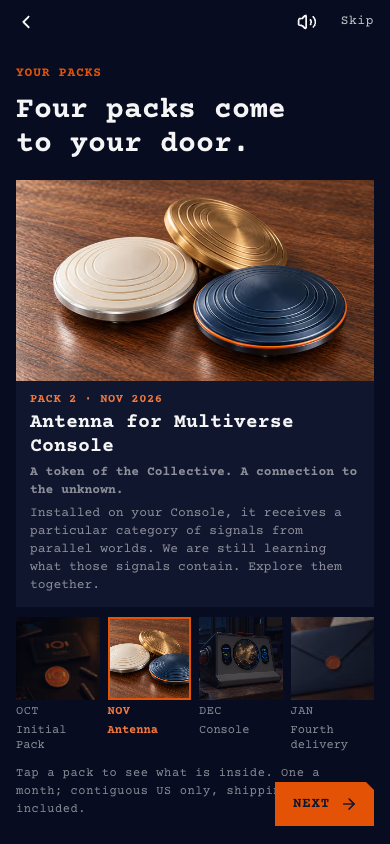
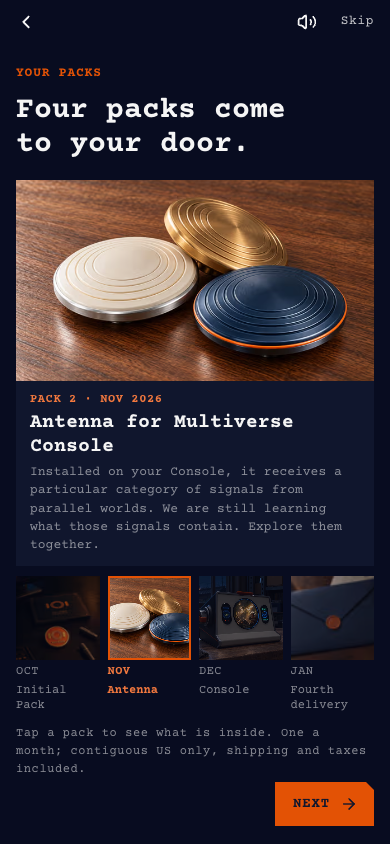
Remove Antenna Pack 2 tagline

Changed region(s): [[0.0308, 0.5545, 0.9538, 0.9858], [0.4615, 0.9242, 0.5231, 0.955]]

diff --git a/src/app/voyager-initiation/initiation-view.tsx b/src/app/voyager-initiation/initiation-view.tsx
@@ -235,7 +235,6 @@ export function InitiationView({ initialBundle = 'initial', snapshot, members = 
                 <PackHeading>{pack.title}</PackHeading>
                 {legacy && index < 2 && <p className={styles.packAccess}>Included in Initial Pack</p>}
                 {pack.featured && consoleClaim.claimed && <p className={styles.packAccess}>{consoleClaim.batch?.name ?? 'Batch details unavailable'}</p>}
-                {index === 1 && <p className={styles.antennaCopy}><strong>{ANTENNA.packTagline}</strong></p>}
                 <p className={index === 1 ? styles.antennaCopy : undefined}>{pack.description}</p>
                 {shipment ? shipment.status !== 'planned' && <p className={styles.shipmentStatus}>{shipment.status}</p> : initiated ? <p className={styles.shipmentStatus}>Progress unavailable</p> : null}
                 {shipment?.trackingUrl && <a className={styles.textLink} href={shipment.trackingUrl} target="_blank" rel="noopener noreferrer">Track delivery <ArrowRight size={18} aria-hidden /></a>}

diff --git a/src/app/voyager-initiation/briefing/briefing-pages.tsx b/src/app/voyager-initiation/briefing/briefing-pages.tsx
@@ -501,7 +501,7 @@ export function PacksPage({ state, onPack }: { state: PageState; onPack: (index:
         <div className={`${s.packHero} ${selected === 1 ? s.antennaHero : ''}`}>
           <span key={pack.image} className={s.packImage}><SmartImage src={pack.image} alt={pack.alt} sizes="(min-width: 460px) 430px, 92vw" preload style={pack.focus ? { objectPosition: pack.focus } : undefined} /></span>
         </div>
-        <div className={s.packCaption} aria-live="polite"><span>{pack.meta}</span><b>{pack.title}</b>{selected === 1 && <p><strong>{ANTENNA.packTagline}</strong></p>}<p>{pack.description}</p></div>
+        <div className={s.packCaption} aria-live="polite"><span>{pack.meta}</span><b>{pack.title}</b><p>{pack.description}</p></div>
       </div>
       <div className={s.packStrip}>
         {PACKS.map((item, k) => <button key={item.month} type="button" className={s.packThumb} aria-pressed={selected === k} style={{ '--k': k } as CSSProperties}

diff --git a/src/lib/antenna-copy.ts b/src/lib/antenna-copy.ts
@@ -2,7 +2,6 @@
 export const ANTENNA = {
   name: 'Antenna',
   firstMention: 'Antenna for Multiverse Console',
-  packTagline: 'A token of the Collective. A connection to the unknown.',
   packDescription: 'Installed on your Console, it receives a particular category of signals from parallel worlds. We are still learning what those signals contain. Explore them together.',
   tagline: 'An emblem of the Collective. A connection to the unknown.',
   description: 'An emblem of the Collective. A connection to the unknown. A decorative collectible for your Console, it receives a particular category of parallel-world signals when installed on top. We are still learning what those signals contain. Explore them together.',

diff --git a/src/app/dev/voyager-bundles/preview.tsx b/src/app/dev/voyager-bundles/preview.tsx
@@ -65,7 +65,7 @@ export function VoyagerBundlesPreview() {
             {pack.image && <div className={original.packImage}><SmartImage src={pack.image} alt={pack.alt} sizes="(min-width: 1100px) 260px, 42vw" preload={index === 0} /></div>}
             <div className={original.packCopy}>
               <p className={original.packageNumber}>Package {index + 1} · {pack.month}</p>
-              <h4>{pack.title}</h4>{index === 1 && <p><strong>{ANTENNA.packTagline}</strong></p>}<p>{pack.description}</p>
+              <h4>{pack.title}</h4><p>{pack.description}</p>
             </div>
             {index === 2 && <ConsoleCarousel suspended={confirmation} />}
           </li>)}

diff --git a/docs/design/antenna-20261022/verification.zh.md b/docs/design/antenna-20261022/verification.zh.md
@@ -15,7 +15,7 @@ Voyager 购买页 → Pack 2、套餐选择与 FAQ → briefing Pack 2 和报价
 - 首先检查 390×844，再检查 1440×1000；字体 Courier Prime，正文 16px，补充说明沿用 12px 下限，未新增品牌颜色或装饰效果。
 - 手机主页面的 Antenna 行使用单列大图＋正文，≥768px 继续沿用既有双列。桌面仍为左图右文。
 - briefing 新图使用 16:9 框，保留三件物体完整轮廓；精简说明后，四个包裹缩略图及其名称在 390×844 下均位于 NEXT 上方。更长内容仍可在现有页面内滚动。
-- 主购买卡 $38、Complete $488 与升级 $460 提示保留。用户随后确认精简：购买页及 briefing 的 Pack 2 仅保留加粗的 “A token of the Collective. A connection to the unknown.” 与指定接收／共同探索正文，不追加适用性和设计示意段落。briefing 套餐页仅保留后续升级价格；安装／主机边界继续保留在主购买卡、FAQ 与交付说明。
+- 主购买卡 $38、Complete $488 与升级 $460 提示保留。用户于 2026-10-23 再次精简：购买页及 briefing 的 Pack 2 删除加粗信物标语，仅保留指定接收／共同探索正文，不追加适用性和设计示意段落。briefing 套餐页仅保留后续升级价格；安装／主机边界继续保留在主购买卡、FAQ 与交付说明。
 - 新图片加载成功，替代方块／圆筒／矿石旧图；没有整页或 briefing 横向溢出。最终浏览器运行没有 pageerror。旧演示图未删除或改标。
 - 只验证展示内容、包裹切换和 briefing 导航；付款、发货和实际天线接收能力不在本次验收范围。
 

diff --git a/docs/product/antenna.zh.md b/docs/product/antenna.zh.md
@@ -14,9 +14,7 @@
 
 ### Pack 2 简介（用户随后确认的精简版）
 
-购买页与 briefing 的 Pack 2 仅保留以下两段，第一段加粗：
-
-**A token of the Collective. A connection to the unknown.**
+购买页与 briefing 的 Pack 2 仅保留以下正文（2026-10-23 用户删除原加粗信物标语）：
 
 Installed on your Console, it receives a particular category of signals from parallel worlds. We are still learning what those signals contain. Explore them together.
 
